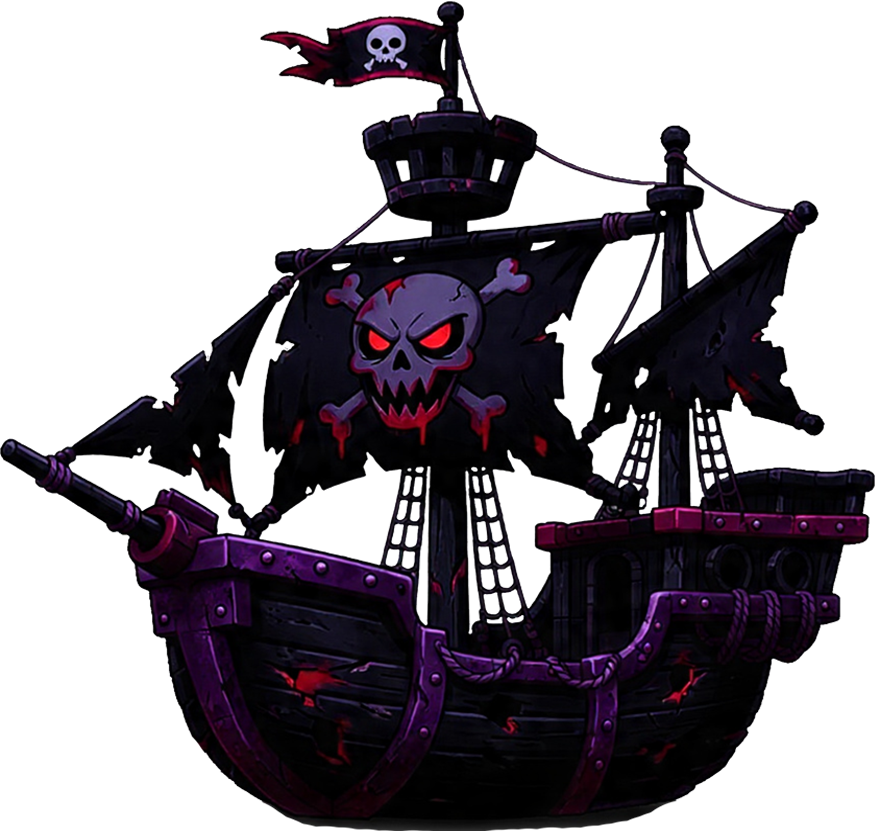
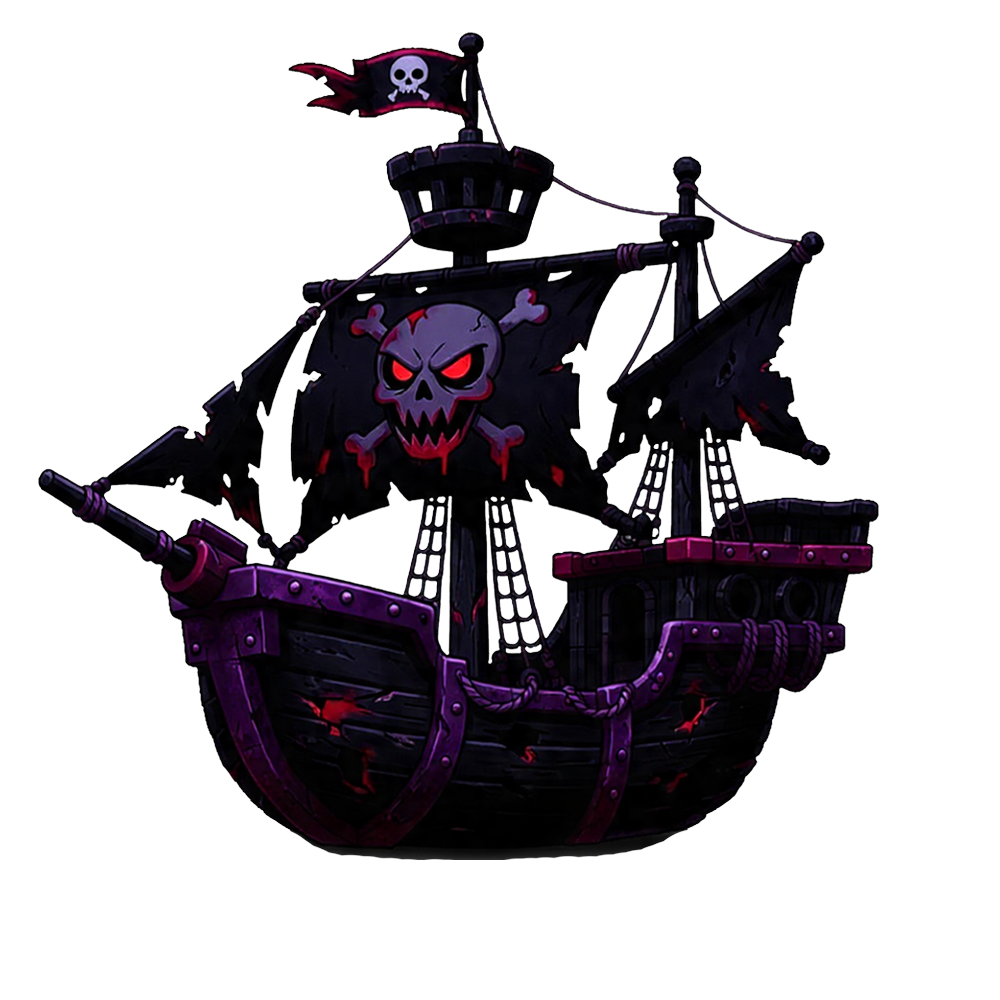
1

diff --git a/src/components/game/PirateGame.jsx b/src/components/game/PirateGame.jsx
@@ -695,6 +695,12 @@ export default function PirateGame({ levelDef, onLevelComplete, onLevelFail, sto
       baseVx += G.cpuAimBias.x;
       baseVy += G.cpuAimBias.y;
 
+      // Límite de seguridad infranqueable: pase lo que pase arriba, el disparo
+      // SIEMPRE tiene que ir hacia el jugador con fuerza real. Esto evita
+      // por completo que la CPU pueda terminar tirando "al cielo".
+      baseVx = Math.min(-6, baseVx);
+      baseVy = Math.max(-19, Math.min(-6, baseVy));
+
       const acc=levelDef.cpuAccuracy||0.5;
       let scatter=(1-acc)*5.5;
       if(levelDef.n>=15)scatter*=0.15;
@@ -740,8 +746,13 @@ export default function PirateGame({ levelDef, onLevelComplete, onLevelFail, sto
     function aprenderDeTiro(bala) {
       const errX = bala.targetPos.x - bala.position.x;
       const errY = bala.targetPos.y - bala.position.y;
-      G.cpuAimBias.x = Math.max(-50, Math.min(50, G.cpuAimBias.x + errX * 0.2));
-      G.cpuAimBias.y = Math.max(-35, Math.min(35, G.cpuAimBias.y + errY * 0.2));
+      // Límites chicos a propósito: el baseVx normal ronda entre -11 y -25.
+      // Si el sesgo pudiera llegar a valores grandes, alcanzaría a invertir
+      // la dirección del disparo (de negativo a positivo) y el cañón
+      // terminaría tirando casi vertical, como "al cielo". Nunca debe poder
+      // superar la magnitud típica del tiro base.
+      G.cpuAimBias.x = Math.max(-8, Math.min(8, G.cpuAimBias.x + errX * 0.08));
+      G.cpuAimBias.y = Math.max(-6, Math.min(6, G.cpuAimBias.y + errY * 0.015));
     }
 
     Events.on(engine, 'collisionStart', ev => {

diff --git a/src/pages/MainMenu.jsx b/src/pages/MainMenu.jsx
@@ -403,8 +403,8 @@ export default function MainMenu({ onPlay, onShop, onSettings, onDailyReward, on
   }, []);
 
   return (
-    <div className="relative w-full max-w-[900px] mx-auto select-none min-h-[480px]" style={{ fontFamily: 'Georgia, serif' }}>
-      <canvas ref={canvasRef} className="w-full rounded-2xl" style={{ display: 'block' }} />
+    <div className="relative w-full max-w-[900px] mx-auto select-none" style={{ fontFamily: 'Georgia, serif', aspectRatio: '900/480' }}>
+      <canvas ref={canvasRef} className="w-full h-full rounded-2xl" style={{ display: 'block', aspectRatio: '900/480' }} />
 
       <div className="absolute inset-0 flex flex-col items-center justify-between pointer-events-none" style={{ padding: '16px 20px' }}>
         {/* Top bar */}

diff --git a/src/index.css b/src/index.css
@@ -20,6 +20,7 @@ body {
   display: flex;
   align-items: center;
   justify-content: center;
+  overflow-y: auto;
 }
 
 @keyframes float {